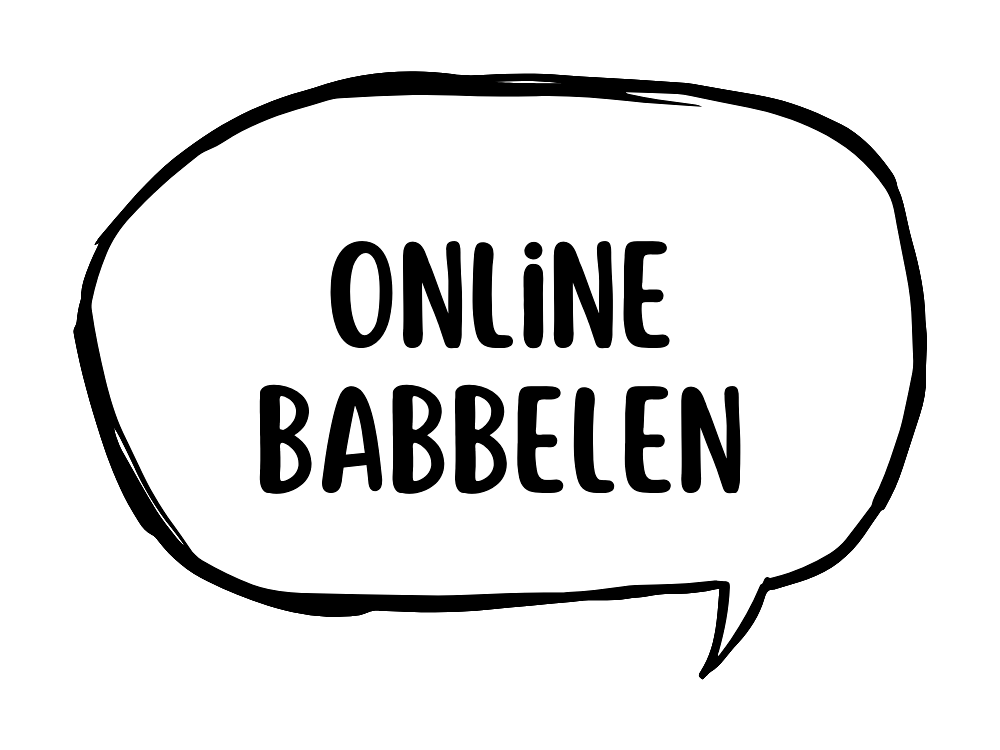
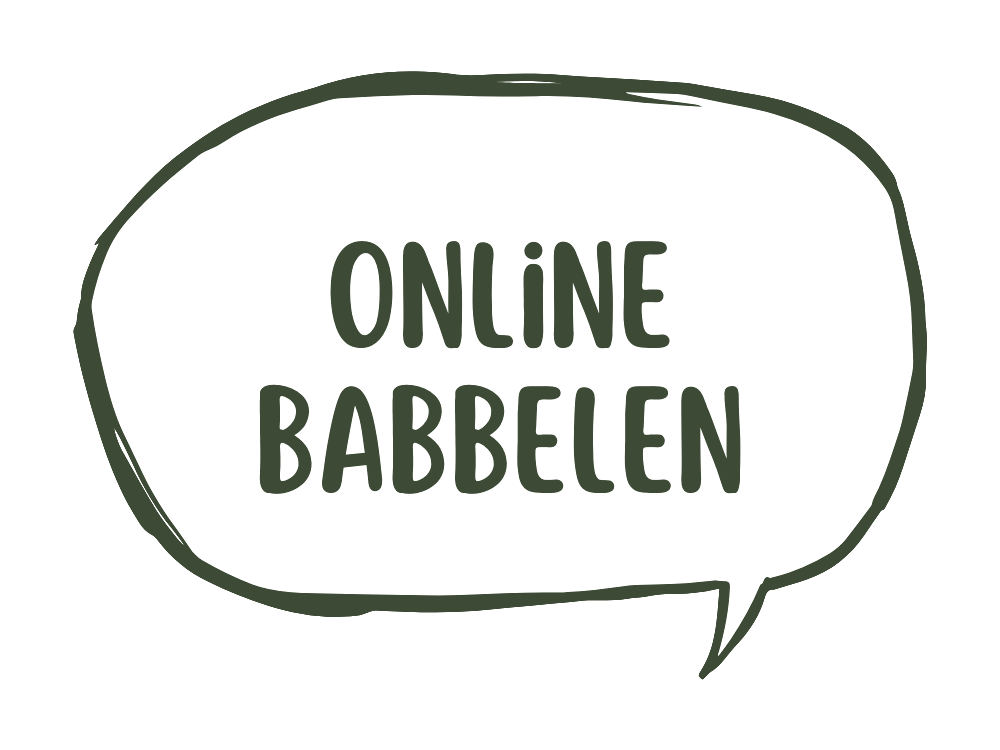
fix

Changed region(s): [[0.062, 0.092, 0.93, 0.92], [0.248, 0.4907, 0.744, 0.6747], [0.31, 0.3067, 0.682, 0.46]]

diff --git a/qui-quoi.html b/qui-quoi.html
@@ -73,7 +73,7 @@
       <div class="badge-row left"><img src="images/badges/badge-je-nose-pas-ink.webp" width="520" height="304" alt="" class="badge"></div>
       <h1 class="caption-visible">Je n'ose pas parler néerlandais</h1>
       <p class="lede">Tu comprends un peu le néerlandais, mais ta gorge se serre dès que tu dois répondre&nbsp;?</p>
-      <p class="fine">Un collègue flamand qui bascule en néerlandais en réunion. Les beaux-parents autour de la table à la Côte. La vendeuse qui te demande « Nog iets anders? » et ton cerveau qui part en blanc. Tu comprends tout — et pourtant, rien ne sort.</p>
+      <p class="fine">Un collègue flamand qui bascule en néerlandais en réunion. Les beaux-parents autour de la table à la Côte. Tu comprends tout — et pourtant, rien ne sort.</p>
       <p class="fine">Pour libérer ta parole, il faut <span class="scribble">fuir l'école</span>.</p>
     </div>
   </section>
@@ -107,9 +107,8 @@
       <p style="font-size:.8rem; opacity:.75; margin-top:-.5rem;">Fondatrice de Das Goe, professeure de néerlandais native flamande installée à Viroinval (Wallonie), et coach en gestion du stress formée à la cohérence cardiaque.</p>
       <img src="images/photos/erika-portret.webp" width="680" height="906" alt="Erika, fondatrice de Das Goe, souriante devant un mur de briques" loading="lazy" class="portrait-float">
       <p>Salut, moi c'est Erika, Débloqueuse de Parole &amp; Facilitatrice Linguistique. Je suis là pour te sauver des bancs d'école.</p>
-      <p>J'adore les langues, mais j'ai toujours détesté les étudier — j'ai même failli rater mes cours de français à l'école. Mon vrai déclic est venu ailleurs&nbsp;: des amis francophones, des mains, des pieds, trois mots cassés et d'immenses fous rires. Mon français a explosé. Sans dictionnaire.</p>
-      <p>J'ai refait le coup au Pérou, en Ukraine, en Chine. Aujourd'hui&nbsp;? Je ne sais plus dire merci en chinois, il me reste une dizaine de mots de russe, et mon espagnol s'endort si je ne le pratique pas.</p>
-      <p>Mais à chaque fois, la langue revient en quelques jours dès que j'y remets un pied — comme si elle n'avait jamais disparu. C'est ça que j'aimerais que tu ressentes avec Das Goe&nbsp;: le blocage total n'est souvent qu'un mensonge du stress. La bonne info est encore là. Il lui faut juste le bon cadre pour ressortir.</p>
+      <p>J'adore les langues, mais j'ai toujours détesté les étudier. Mon vrai déclic est venu ailleurs&nbsp;: des amis francophones, trois mots cassés, d'immenses fous rires. Mon français a explosé, sans dictionnaire. J'ai refait le coup au Pérou, en Ukraine, en Chine.</p>
+      <p>Aujourd'hui, il me reste une dizaine de mots de russe et mon espagnol s'endort — mais la langue revient en quelques jours dès que j'y remets un pied. Le blocage total n'est souvent qu'un mensonge du stress.</p>
       <p class="pull-quote">C'est ça, la vraie leçon de mes trois langues « oubliées »&nbsp;: on ne repart jamais vraiment de zéro. On repart juste débloqué.</p>
     </div>
   </section>

diff --git a/balades.html b/balades.html
@@ -128,8 +128,7 @@
   <section class="section-paper">
     <div class="wrap lead-block">
       <p>Tu comprends le néerlandais, mais au moment de répondre, ton cerveau se fige&nbsp;?</p>
-      <p>C'est totalement normal. Les cours traditionnels stimulent la zone de la peur dans ton cerveau. Le stress bloque ta fluidité. Tu as peur d'être jugé, tu cherches tes mots, et tu abandonnes.</p>
-      <p>Pour libérer ta parole, il faut sortir de la classe.</p>
+      <p>C'est totalement normal. Les cours traditionnels stimulent la peur, le stress bloque ta fluidité — et tu abandonnes. Pour libérer ta parole, il faut sortir de la classe.</p>
 
       <h2 style="margin-top:2rem;">Balades en néerlandais</h2>
       <p>Oublie l'angoisse des listes de vocabulaire. Bienvenue chez Das Goe&nbsp;: la méthode de la marche active.</p>
@@ -227,7 +226,7 @@
       <div class="faq-list">
         <details class="faq-item">
           <summary>Je comprends un peu le néerlandais, mais je n'ose pas du tout parler. Est-ce que cette balade est vraiment pour moi&nbsp;?</summary>
-          <p>C'est exactement pour toi&nbsp;! La grande majorité des participants sont dans ta situation&nbsp;: ils ont le « dictionnaire bloqué dans la tête » par peur du jugement. Ici, pas de prof sévère, pas de notes. On marche, on fait des erreurs, on en rigole et on avance ensemble.</p>
+          <p>C'est exactement pour toi&nbsp;! La grande majorité des participants ont ce « dictionnaire bloqué dans la tête » par peur du jugement. Pas de prof sévère ici&nbsp;: on marche, on fait des erreurs, on en rigole.</p>
         </details>
         <details class="faq-item">
           <summary>Quel est le niveau minimum requis pour participer&nbsp;?</summary>
@@ -235,7 +234,7 @@
         </details>
         <details class="faq-item">
           <summary>Que se passe-t-il si je ne trouve plus mes mots pendant la balade&nbsp;?</summary>
-          <p>Rien de grave&nbsp;! On parle avec les mains, les pieds, et s'il le faut, on utilise un mot en français. Je suis là pour t'aider et te souffler le mot manquant, sans aucune pression. La nature autour de nous offre une multitude de sujets concrets pour que la conversation reste naturelle et fluide.</p>
+          <p>Rien de grave&nbsp;! On parle avec les mains, les pieds, et s'il le faut, un mot en français. Je suis là pour te souffler le mot manquant, sans aucune pression.</p>
         </details>
       </div>
       <div class="btn-row">

diff --git a/cours-en-ligne.html b/cours-en-ligne.html
@@ -95,7 +95,7 @@
       <div class="badge-row left"><img src="images/badges/badge-online-babbelen-ink.webp" width="700" height="525" alt="" class="badge badge-sm"></div>
       <p class="caption-visible">Das Goe — Cours en ligne &amp; packs</p>
       <h1>Tu comprends le néerlandais, mais devant ton écran, <span class="scribble">tu te fige</span> encore plus qu'en vrai&nbsp;?</h1>
-      <p class="lede">Normal. Un écran, c'est encore plus intimidant qu'une salle de classe&nbsp;: pas d'échappatoire, juste toi, ta voix, et la peur de dire une bêtise en direct.</p>
+      <p class="lede">Normal. Un écran, c'est encore plus intimidant qu'une salle de classe — pas d'échappatoire.</p>
       <p class="fine">Sauf qu'ici, <span class="scribble">dire une bêtise, c'est le but</span> — 1 séance individuelle en visio, 1h, dès 20€.</p>
       <div class="btn-row">
         <a href="#options" class="btn btn-primary">Je réserve mon 1er cours</a>
@@ -110,8 +110,8 @@
       <p>Zéro liste de vocabulaire à apprendre avant de pouvoir commencer.<br>
       Zéro correction sévère qui coupe ton élan.<br>
       100% conversation, dès le premier cours.</p>
-      <p>Je suis Erika. Flamande, langue maternelle néerlandaise. J'ai appris l'espagnol, le russe et le chinois à l'âge adulte — au Pérou, en Ukraine, en Chine — avec trois mots cassés à chaque fois. C'est cette méthode qu'on utilise ici&nbsp;: parler d'abord, la précision viendra après.</p>
-      <p>Je suis aussi coach en gestion du stress, formée à la cohérence cardiaque&nbsp;: le blocage que tu ressens face à l'écran est une vraie réaction de stress, pas un manque de niveau — et ça se travaille aussi par la respiration, pas seulement par la grammaire.</p>
+      <p>Je suis Erika. Flamande, langue maternelle néerlandaise. J'ai appris l'espagnol, le russe et le chinois à l'âge adulte, avec trois mots cassés à chaque fois. Parler d'abord, la précision viendra après.</p>
+      <p>Je suis aussi coach en gestion du stress&nbsp;: le blocage face à l'écran est une vraie réaction de stress, pas un manque de niveau — et ça se travaille aussi par la respiration.</p>
 
       <h3 style="margin-top:2rem;">Comment ça se passe</h3>
       <p>Chaque séance, 1h, juste toi et moi en visio&nbsp;:</p>

diff --git a/guide.html b/guide.html
@@ -95,7 +95,7 @@
       <div class="badge-row left"><img src="images/badges/badge-guide-80-20-ink.webp" width="700" height="525" alt="Guide 80/20" class="badge"></div>
       <p class="caption-visible">Das Goe — Le guide 80/20</p>
       <h1>Tu veux réviser un peu, mais tu ne sais pas quoi <span class="scribble">apprendre par cœur</span>&nbsp;?</h1>
-      <p class="lede">Normal. La plupart des méthodes te donnent 100% du vocabulaire — grammaire, exceptions, listes interminables. Toi, pour oser parler, t'as juste besoin des <span class="scribble">20% qui reviennent tout le temps</span>.</p>
+      <p class="lede">Normal. Les méthodes classiques te donnent 100% du vocabulaire. Toi, tu as juste besoin des <span class="scribble">20% qui reviennent tout le temps</span>.</p>
       <p class="fine">C'est exactement ce que ce guide te donne. Rien de plus.</p>
       <div class="btn-row">
         <a href="#acheter" class="btn btn-primary">J'achète le guide</a>
@@ -108,7 +108,7 @@
       <div class="badge-row left"><img src="images/badges/badge-goe-lezen-ink.webp" width="700" height="525" alt="" class="badge badge-sm"></div>
       <h2 class="caption-visible">Goe lezen</h2>
       <p>Pas un manuel scolaire. Pas une grammaire complète que tu n'ouvriras jamais deux fois.</p>
-      <p>Le guide 80/20 reprend uniquement les mots et les phrases qui reviennent vraiment dans une conversation du quotidien — celles que j'utilise moi-même, dans chaque langue que j'ai apprise sur le tas, au Pérou, en Ukraine, en Chine. Pas la théorie apprise en classe. Ce qui sert concrètement à se débrouiller, tout de suite.</p>
+      <p>Le guide 80/20 reprend uniquement les mots et les phrases qui reviennent vraiment dans une conversation du quotidien — celles que j'utilise moi-même, dans chaque langue apprise sur le tas. Pas la théorie apprise en classe. Ce qui sert concrètement à se débrouiller, tout de suite.</p>
 
       <ul class="pillars">
         <li><div><strong>Classé par situation réelle</strong><p>Pas par thème scolaire — par ce qui t'arrive vraiment (se présenter, commander, papoter, dire que t'as pas compris).</p></div></li>

diff --git a/index.html b/index.html
@@ -70,8 +70,8 @@
       <div class="badge-row left"><img src="images/badges/logo-das-goe-ink.webp" width="520" height="520" alt="" class="badge badge-sm"></div>
       <p class="caption-visible">Das Goe</p>
       <h1>Tu comprends le néerlandais, mais dès qu'il faut répondre, <span class="scribble">ta gorge se serre</span>&nbsp;?</h1>
-      <p class="lede">C'est normal. Ce n'est pas un manque de niveau — c'est un réflexe de peur, appris à l'école, et il se désapprend.</p>
-      <p class="fine">« Das Goe » (« c'est bon&nbsp;! » en flamand — pas du néerlandais correct, et c'est <span class="scribble">tout le message</span>) : ici, parler « assez bien » suffit largement pour commencer, zéro théorie, zéro jugement.</p>
+      <p class="lede">C'est un réflexe de peur, pas un manque de niveau — et ça se désapprend.</p>
+      <p class="fine">« Das Goe » (« c'est bon&nbsp;! » en flamand) : ici, parler « <span class="scribble">assez bien</span> » suffit pour commencer.</p>
       <div class="btn-row">
         <a href="cours-en-ligne.html#options" class="btn btn-primary">Je réserve mon 1er cours</a>
       </div>
